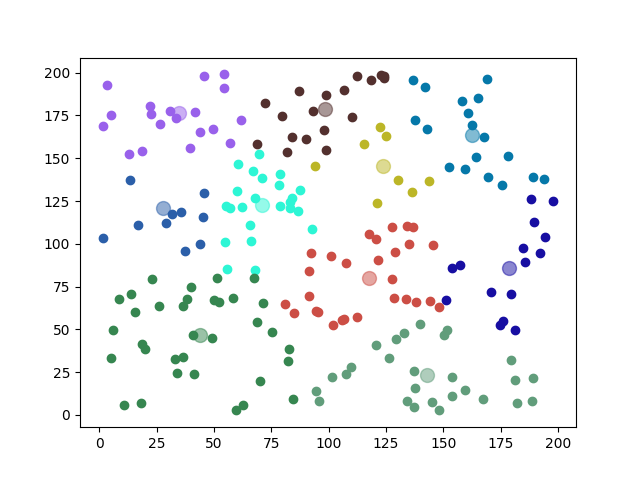
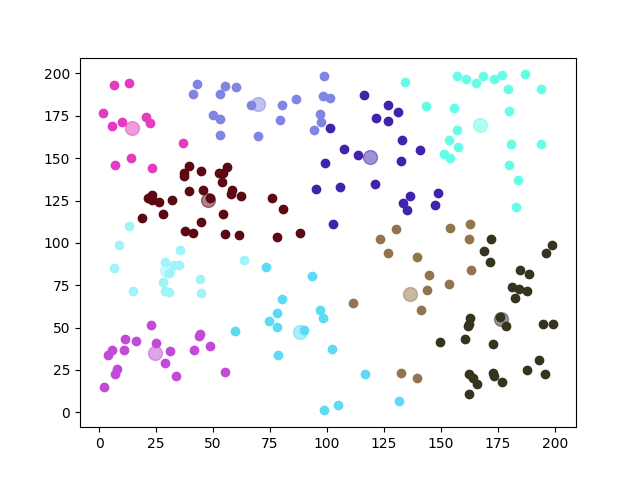
update

diff --git a/Semana16/kMeans (Class).py b/Semana16/kMeans (Class).py
@@ -73,17 +73,26 @@ class K_Means():
             plt.scatter(*zip(*[point]), color = hexadecimal, marker='o', s = 100, alpha = 0.5)
             for point_data in self.data_groups[i]:
                 plt.scatter(*zip(*[point_data]), color = hexadecimal)
-        plt.savefig(f"C:\\Users\\bruni\\OneDrive\\Documentos\\GitHub\\OTPA001I\\k-Means\\{file_name}.png")
+        plt.savefig(f"C:\\Users\\bruni\\OneDrive\\Documentos\\GitHub\\OTPA001I\\Semana16\\{file_name}.png")
         plt.close()
 
 
 if __name__ == "__main__":
 
-    # Exemple01 (2d plot):
+    # Exemple01:
     X = [random.uniform(1, 200) for _ in range(200)]
     Y = [random.uniform(1, 200) for _ in range(200)]
     data = list(zip(X, Y))
 
+    # # Exemple02:
+    # X_circle_1 = np.linspace(-1, 1, 200)
+    # Y_circle_1 = [sqrt(1 - x**2) for x in X_circle_1]
+    # X_circle_2 = np.linspace(-2, 2, 200)
+    # Y_circle_2 = [sqrt(4 - x**2) for x in X_circle_2]
+    # X_circle_3 = np.linspace(-2, 2, 200)
+    # Y_circle_3 = [sqrt(4.5 - x**2) for x in X_circle_3]
+    # data = list(zip(X_circle_1, Y_circle_1)) + list(zip(X_circle_2, Y_circle_2)) + list(zip(X_circle_3, Y_circle_3))
+
     scan = K_Means()
-    scan.kMeans(10, data, 5)
-    scan.PlotkMeans("Exemplo03 (k-Means)")
+    scan.kMeans(2, data, 5)
+    scan.PlotkMeans("Exemple01 (k-Means)")

diff --git a/Semana16/DB-Scan (Class).py b/Semana16/DB-Scan (Class).py
@@ -96,7 +96,7 @@ class DB_Scan():
             else:
                 hexadecimal = ["#"+''.join([random.choice('ABCDEF0123456789') for i in range(6)])]
             plt.scatter(*zip(*group), color = hexadecimal, marker='o', s = 100, alpha = 0.5)
-        plt.savefig(f"C:\\Users\\bruni\\OneDrive\\Documentos\\GitHub\\OTPA001I\\DB-Scan\\{file_name}.png")
+        plt.savefig(f"C:\\Users\\bruni\\OneDrive\\Documentos\\GitHub\\OTPA001I\\Semana16\\{file_name}.png")
         plt.close()
 
 if __name__ == "__main__":
@@ -118,4 +118,4 @@ if __name__ == "__main__":
     scan = DB_Scan()
 
     scan.dbScan(data, radius, minimum_cluster)
-    scan.PlotdbScan('Exemplo01 (DB-Scan)')
+    scan.PlotdbScan('Exemple01 (DB-Scan)')
